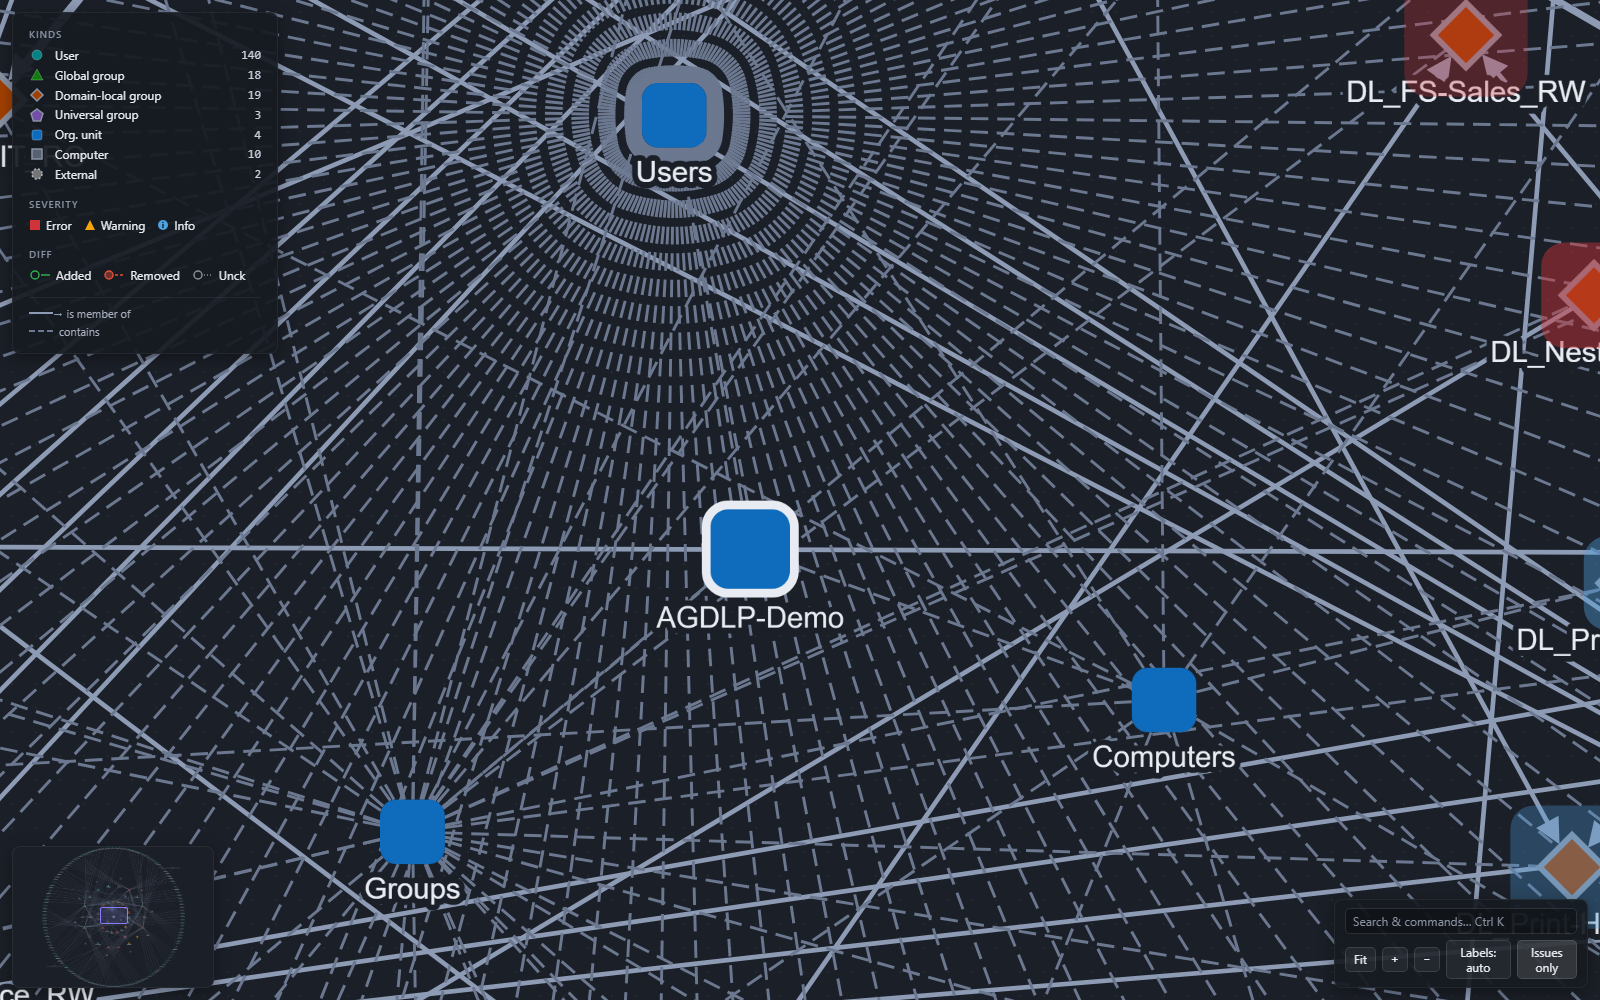
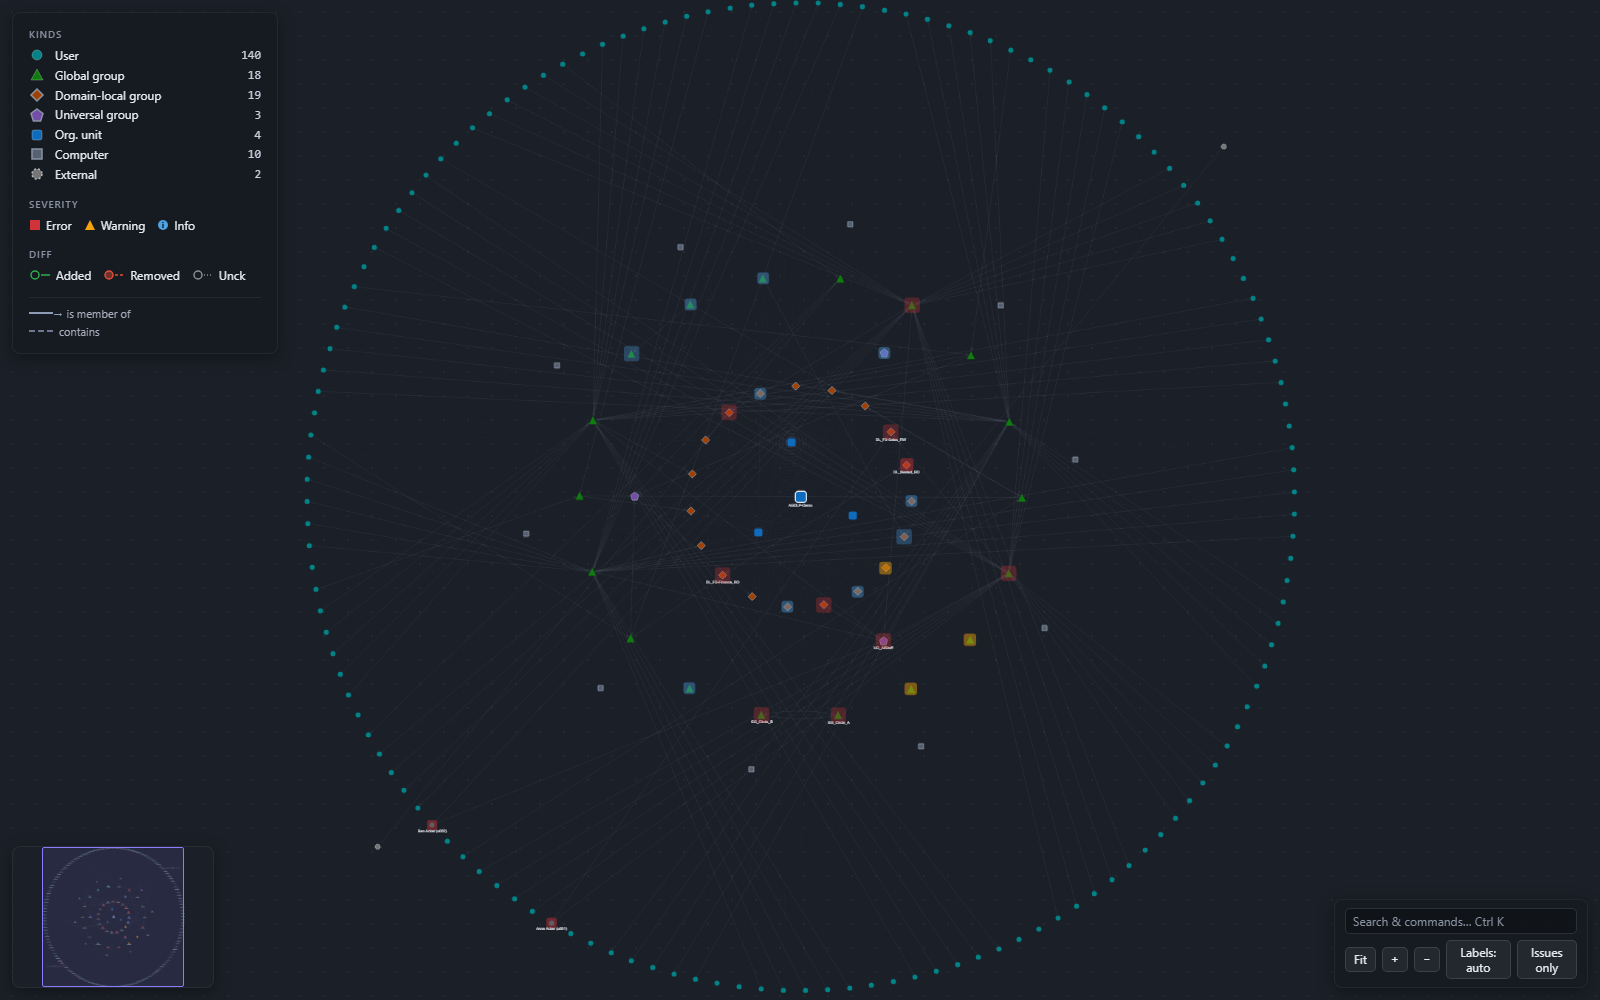
feat(graph): fade overview edges so explore reads as a constellation
At fit/overview zoom an individual edge is untraceable, so the full-opacity
mesh is pure noise (the "hairball") -- and it was the README hero. Fade plain
(non-diff) edges to opacity 0.15 at/near the fit baseline, restoring full
opacity on zoom-in. Binary class toggle with hysteresis (the cy.batch fires
only on a threshold crossing; isDiffGraph excludes the gap view wholesale),
instant (no transition, the #88 motion counters stay 0), software-rendering-
floor safe.

Re-points the README hero to the now-clean overview frame; pins the behaviour
in verify.mjs (overview faded / zoomed-in full / diff-frame off); ADR-029.

Closes #176

Claude-Session: https://claude.ai/code/session_011xnzdmWtBKGQ4CpA6RcJw7

diff --git a/src/App/web/graph.js b/src/App/web/graph.js
@@ -171,6 +171,21 @@
   // threshold keeps the init value until the next full build (acceptable for v0.1).
   var EDGE_HIDE_THRESHOLD = 1500;
 
+  // WP-A (#176, ADR-029): zoom-driven overview edge-fade. At/near the fit zoom an
+  // individual edge is untraceable, so the full-opacity mesh is pure visual noise (the
+  // "hairball"); at overview zoom every plain (non-diff) edge fades to a faint wash so
+  // the shaped-node constellation reads, then returns to full as the user zooms in to
+  // inspect. fitZoom is the size-independent overview baseline captured once per full
+  // build (cy.fit()); a binary class toggle with hysteresis keeps the software-
+  // rendering floor safe — the cy.batch toggle runs ONLY on a threshold crossing,
+  // never per frame. The gap/diff view is EXCLUDED wholesale (isDiffGraph): its
+  // Added/Removed/Unchecked edges are the signal, never noise. Instant (the
+  // gw-edge-faded rule carries no transition) so the #88 motion counters stay 0.
+  var EDGE_FADE_FACTOR = 1.6;   // fade while cy.zoom() <= fitZoom * this (tunable)
+  var fitZoom = null;           // zoom right after cy.fit() (overview baseline), per build
+  var edgesFaded = false;       // current applied fade state (the hysteresis guard)
+  var isDiffGraph = false;      // a gap/diff build (>=1 diff-tagged edge) => never fade
+
   // ADR-023 D4: Labels toggle state ('auto' = ADR-018 gate, 'all' = every label
   // at fit zoom). Module-level so applyLabelMode() can re-assert it in sendLoaded
   // after a graphUpdate adds new nodes. Default 'auto'.
@@ -433,6 +448,30 @@
     cy.nodes().toggleClass('gw-labels-all', labelMode === 'all');
   }
 
+  // WP-A (#176, ADR-029): apply the overview edge-fade for the CURRENT zoom. Driven by
+  // the 'zoom' cy event (via onZoomFade, force=false) and re-asserted from initGraph /
+  // sendLoaded (force=true) so a freshly built graph and any graphUpdate-added edges
+  // pick up the right state. Hysteresis: force=false short-circuits unless the fade
+  // threshold was just crossed, so the per-frame 'zoom' stream costs one read + one
+  // compare; the cy.batch class toggle runs ONLY on a crossing (software-floor safe).
+  // No-op until fitZoom is captured, and OFF entirely on a diff graph (isDiffGraph) so
+  // the gap view's coloured edges always stay full-opacity. Explore graphs carry no
+  // diff edge, so cy.edges() == the [!diff] set.
+  function updateEdgeFade(force) {
+    if (cy === null || fitZoom === null || isDiffGraph) { return; }
+    var shouldFade = cy.zoom() <= fitZoom * EDGE_FADE_FACTOR;
+    if (!force && shouldFade === edgesFaded) { return; }
+    edgesFaded = shouldFade;
+    cy.batch(function () {
+      if (shouldFade) { cy.edges().addClass('gw-edge-faded'); }
+      else { cy.edges().removeClass('gw-edge-faded'); }
+    });
+  }
+
+  // The 'zoom' cy event passes an event object as the first arg; wrap so it never
+  // reaches updateEdgeFade's `force` param (a truthy event would defeat the hysteresis).
+  function onZoomFade() { updateEdgeFade(false); }
+
   // WP3b (#142): does a node carry a finding or a flagged-descendant roll-up?
   // The predicate for "keep visible under issues-only". data('below') is emitted
   // only when > 0 (ADR-010 D2), so its mere presence means flagged descendants.
@@ -609,6 +648,7 @@
     updateLegendCounts();
     applyLabelMode();  // ADR-023 D4: re-assert label mode across a graphUpdate.
     applyIssuesFilter();  // WP3b (#142): re-assert issues-only across a graphUpdate.
+    updateEdgeFade(true); // WP-A (#176): re-assert overview fade onto graphUpdate edges.
     syncIssuesButton();   // WP3b: refresh the toggle (incl. all-clear) per build.
     refreshMinimap();     // WP3d (#146): (re)rasterize the thumbnail on any graph change.
   }
@@ -792,6 +832,17 @@
             opacity: 1
           }
         },
+        // WP-A (#176, ADR-029): overview edge-fade. Toggled on every edge by
+        // updateEdgeFade() when an explore graph is zoomed out near its fit baseline.
+        // Placed BEFORE the edge[diff=...] rules and the edge.gw-dim rule so BOTH still
+        // win the opacity channel below it: a diff-tagged edge keeps its diff opacity
+        // (and isDiffGraph turns fade off wholesale anyway), and a selection-dimmed edge
+        // keeps 0.12. The fade therefore governs only an undiffed, undimmed edge at
+        // overview zoom. No transition => instant => the #88 motion counters stay 0.
+        {
+          selector: 'edge.gw-edge-faded',
+          style: { opacity: 0.15 }
+        },
         // Gap diff EDGE override (AP 66, ADR-015 Slice 5): placed AFTER the
         // edge[rel=...] rules so it WINS line-color / line-style on a diffed edge.
         // line-style (solid/dashed/dotted) is the colorblind-redundant channel for
@@ -906,8 +957,16 @@
     // per-frame minimap work — a single div repositioned from cy.extent() (no png, no
     // boundingBox). Attaches ONCE per cy instance (initGraph recreates cy).
     cy.on('render pan zoom', updateMinimapViewport);
+    // WP-A (#176, ADR-029): track the overview edge-fade as the camera zooms.
+    cy.on('zoom', onZoomFade);
 
     cy.fit();
+    // ADR-029: capture the overview baseline, decide if this is a diff graph (once per
+    // build), and apply the fade BEFORE the first paint so the explore hero never
+    // flashes the full-opacity hairball. sendLoaded re-asserts it after a graphUpdate.
+    fitZoom = cy.zoom();
+    isDiffGraph = cy.edges('[?diff]').nonempty();
+    updateEdgeFade(true);
     cy.one('render', sendLoaded);
   }
 

diff --git a/docs/adr/029-graph-overview-edge-fade.md b/docs/adr/029-graph-overview-edge-fade.md
@@ -1,0 +1,112 @@
+# ADR-029: Graph overview edge-fade — fade plain edges at fit zoom, restore on zoom-in
+
+**Status:** Accepted · **Date:** 2026-06-25
+**Refines:** ADR-004 (preset concentric layout + the bezier edge language) · ADR-010/015 (severity overlay / diff underlay channels) · ADR-017/018 (#88 isolated-motion counters, instant class toggles) · ADR-023 (web-layer in-graph controls) · **Decides:** the v0.4.2 senior-review polish WP-A (#176) · **Phase:** 4 (feedback-driven)
+
+## Context
+
+The default fit/overview render of an explore graph is a dense, full-opacity **edge
+mesh** — at the demo scale (196 nodes / 334 edges) a legible-but-busy cobweb, and on a
+real directory a true hairball. At overview zoom no *individual* edge is traceable
+anyway (they cross, overlap, and converge on the high-degree rings), so the mesh at that
+zoom is **pure visual noise**: it buries the one thing the overview *should* communicate
+— the shaped-node constellation (which kinds sit where, which clusters are dense, where
+the flagged nodes are). This view is also the product's **first impression** and the
+README hero image (`docs/media/graph-explore.png`).
+
+The shipped app already ships strong *opt-in* mitigations — Issues-only filter (#142),
+Find / command palette (ADR-023), neighbourhood dim on selection (ADR-018), the minimap
+(#146) — but the **default first paint** receives none of them. The weakest frame in the
+product is the one every new user and every README reader sees first.
+
+Two hard constraints bind any fix:
+- **The software-rendering floor (ADR-001).** The target audience runs on RDP / server /
+  GPU-less VMs; the 5000-node/6499-edge spike (`spikes/GraphSpike/RESULTS-software-
+  rendering.md`) is the perf bar. A per-frame restyle of every edge is off the table.
+- **The #88 isolated-motion contract (ADR-017/018).** Selection and its kin are *instant
+  class toggles*, never `cy.animate`; `verify.mjs` pins the `__gwAnimateCalls` /
+  `__gwEnterAnims` counters at **0** across those paths. Any new resting-state treatment
+  must not animate.
+
+## Decision
+
+### D1 — Fade plain edges at overview zoom; restore them on zoom-in.
+
+When an explore graph sits at/near its fit zoom, every edge fades to a faint wash
+(`opacity 0.15`); as the user zooms in to inspect, edges return to full opacity. The
+**node** layer (kind fill + shape, severity halo, accent ring, labels) is untouched —
+only edges fade, so the constellation reads while the cobweb recedes. The faded wash
+keeps just enough edge presence to suggest structure (you can still see *that* the centre
+is densely connected) without asserting traceable individual links you cannot follow at
+that zoom anyway.
+
+### D2 — Binary toggle with hysteresis, never a per-frame opacity ramp.
+
+A continuous opacity-vs-zoom interpolation (prettier in principle) is **rejected**: it
+requires restyling every edge on every zoom frame, which breaks the software-rendering
+floor at the 5–6k-edge spike. Instead the fade is a single CSS-class toggle
+(`edge.gw-edge-faded { opacity: 0.15 }`) flipped on a **threshold crossing** only:
+
+- `fitZoom` is captured once per full build, right after `cy.fit()` — the
+  **size-independent overview baseline** (so the rule auto-scales to any graph; no magic
+  absolute zoom).
+- Edges fade while `cy.zoom() <= fitZoom * EDGE_FADE_FACTOR` (`1.6`, tunable). The factor
+  is small so edges restore quickly once the user starts zooming in to inspect.
+- **Hysteresis:** the per-frame `zoom` handler (`onZoomFade → updateEdgeFade(false)`)
+  costs one read + one compare; the `cy.batch` `addClass`/`removeClass` runs **only** when
+  the boolean state actually flips. The per-build init and every `graphUpdate` re-assert
+  with `updateEdgeFade(true)` so freshly-added edges (lazy expand) match the current
+  state.
+
+The toggle carries **no transition**, so it is instant and the #88 motion counters stay
+0 — the fade is a state change, not an animation, and needs no reduced-motion branch
+(ADR-017 is about `cy.animate` / opacity tweens, neither of which this uses).
+
+### D3 — The gap/diff view is excluded wholesale.
+
+In a gap build the Added / Removed / Unchecked edges **are** the signal, never noise — so
+fade is off entirely whenever the graph carries any diff-tagged edge (`isDiffGraph`,
+computed once per build via `cy.edges('[?diff]')`). This is checked as an O(1) module
+boolean inside `updateEdgeFade`, never as a per-frame selector scan. Style-channel
+composition is belt-and-braces here: the `edge.gw-edge-faded` rule is placed in
+`buildStyle()` **before** the `edge[diff=…]` rules and the `edge.gw-dim` rule, so even if
+the class were ever present on a diffed or selection-dimmed edge those later rules win the
+opacity channel (diff keeps its pinned opacity; a dimmed edge keeps `0.12`). The fade
+therefore governs only an **undiffed, undimmed** edge at overview zoom.
+
+### D4 — No new themed token; no parity-mirror entry.
+
+`EDGE_FADE_FACTOR` and the `0.15` wash are **behaviour constants in `graph.js` only**
+(like `EDGE_HIDE_THRESHOLD`), theme-invariant — they are not colours, so they do **not**
+join the hand-mirrored `BrandTokens` ⇄ `THEME`/`CHROME` ⇄ `index.html` ⇄ `verify.mjs`
+palette parity set (unlike ADR-027's accent token). They are pinned only by the
+`verify.mjs` behavioural assertion (D5).
+
+### D5 — Pinned in verify.mjs; a new ui-checklist criterion.
+
+`tests/graph-bundle/verify.mjs` pins the behaviour: at the overview frame a plain
+membership edge and a contains edge render `opacity ≈ 0.15`; after zooming in past
+`fitZoom * EDGE_FADE_FACTOR` the same edges render `opacity 1`; and on the diff frame no
+edge carries `gw-edge-faded` while the diff edges keep their pinned diff opacities. The
+overview frame (`graph-overview.png`) — the source the README hero is copied from — now
+renders the faded constellation. `docs/ui-checklist.md` gains a matching `[P]` criterion.
+
+## Consequences
+
+- **The explore hero stops being a hairball.** `docs/media/graph-explore.png` is
+  re-rendered from the new overview frame: a clean shaped-node constellation with faint
+  structural edges, not a full-opacity cobweb. The first impression now sells the product.
+- **Dark/light parity is unaffected** — fade is an opacity-only behaviour, identical in
+  both themes; no theme table changes.
+- **One pre-existing pin moves:** any `verify.mjs` assertion that pinned a plain edge's
+  opacity to `1` *at the overview frame* now expects the faded value at overview and full
+  opacity zoomed-in (the value is unchanged in graph.js' resting `buildStyle`; only the
+  rendered overview state changed). This is a deliberate, reviewed test update, not a
+  weakening.
+- **Selection at overview zoom** shares the faded edge treatment (the neighbourhood edges
+  are faint too); the node-level emphasis (un-dimmed neighbour nodes, accent ring, white
+  border) still carries the selection, and the user zooms in to trace links. Accepted for
+  v0.4.2; a future pass could exempt the selected neighbourhood from fade if review finds
+  it wanting — it would be an additive `updateEdgeFade` branch, not a contract change.
+- **No motion-counter impact** (#88): the fade is an instant class toggle, so the
+  ADR-017/018 `__gwAnimateCalls` pins hold unchanged.

diff --git a/.claude/skills/record-demo-media/SKILL.md b/.claude/skills/record-demo-media/SKILL.md
@@ -12,7 +12,7 @@ live operator identity) must never reach published media.
 
 | README artifact | Pipeline | Source frame |
 |---|---|---|
-| `docs/media/graph-explore.png` | `verify.mjs` (headless Chromium, [[headless-uitest]] part A) | `artifacts/ui/graph-focus.png` |
+| `docs/media/graph-explore.png` | `verify.mjs` (headless Chromium, [[headless-uitest]] part A) | `artifacts/ui/graph-overview.png` |
 | `docs/media/gap-analysis.png` | `verify.mjs` (diff tripwire frame) | `artifacts/ui/graph-diff.png` |
 | `docs/media/m2-explore.gif` | `tools/record-demo-gif.ps1` (live windowed app) | its own frames |
 
@@ -29,13 +29,18 @@ Avalonia app is never on screen for them. Only the GIF drives the running app.
 2. Copy + rename into git-tracked `docs/media/` (`artifacts/` is gitignored, so
    nothing lands automatically — this mapping lives only here and in #108):
    ```
-   Copy-Item artifacts/ui/graph-focus.png docs/media/graph-explore.png -Force
-   Copy-Item artifacts/ui/graph-diff.png  docs/media/gap-analysis.png  -Force
+   Copy-Item artifacts/ui/graph-overview.png docs/media/graph-explore.png -Force
+   Copy-Item artifacts/ui/graph-diff.png     docs/media/gap-analysis.png  -Force
    ```
    Straight copy at 1600×1000 — there is no crop/resize/PNG-optimization step.
-3. Read both PNGs; judge vs `docs/ui-checklist.md` (`[S:graph-focus]`/
+   (The hero is the OVERVIEW frame, not `graph-focus`, since WP-A/ADR-029 — the
+   overview-zoom edge-fade turns that frame into a clean kind-shaped constellation
+   instead of a hairball, the stronger first impression. `graph-focus` is still the
+   zoomed-in, full-edge frame for the `[S:graph-focus]` checklist items.)
+3. Read both PNGs; judge vs `docs/ui-checklist.md` (`[S:graph-overview]`/
    `[S:graph-diff]`). If the UI change altered the visual language (a kind colour,
-   the diff palette), update the README alt-text too (lines 12/18).
+   the diff palette, the overview edge-fade), update the README alt-text too
+   (lines 12/18).
 
 ## B. The demo GIF (`tools/record-demo-gif.ps1`)
 

diff --git a/README.md b/README.md
@@ -9,13 +9,15 @@ conventions. Where security-path tools like BloodHound or Adalanche show attack
 paths, GroupWeaver shows structural cleanliness and convention adherence — a
 governance perspective, not a security one.
 
-![GroupWeaver visualizing the bundled demo directory as an interactive, AD-centered graph — object kinds distinguished by color and shape, nesting drawn as edges, with a legend top-left, a minimap bottom-left, and a Ctrl+K command palette plus issues-only / fit / labels controls bottom-right](docs/media/graph-explore.png)
+![GroupWeaver visualizing the bundled demo directory as an interactive, AD-centered graph — object kinds distinguished by color and shape on concentric rings, nesting drawn as edges that fade back at the overview zoom so the kind-shaped constellation and flagged nodes read at a glance, with a legend top-left, a minimap bottom-left, and a Ctrl+K command palette plus issues-only / fit / labels controls bottom-right](docs/media/graph-explore.png)
 
-*Exploring the bundled demo directory in demo mode: object kinds (user, global /
+*The whole demo directory at a glance, in demo mode: object kinds (user, global /
 domain-local / universal group, OU, computer, external) are distinct by both color
-and shape, nesting is drawn as directed edges. A legend sits top-left, a minimap
-bottom-left, and a Ctrl+K command palette with an "issues-only" filter, fit, and
-label controls bottom-right.*
+and shape on concentric rings. At the overview zoom the nesting edges fade to a faint
+wash so the constellation — and the flagged nodes' severity halos — stay legible; zoom
+in and the edges return to full strength to trace membership. A legend sits top-left, a
+minimap bottom-left, and a Ctrl+K command palette with an "issues-only" filter, fit,
+and label controls bottom-right.*
 
 ![Gap analysis — a proposed plan diffed against the live structure: added reads green, removed reads red-orange and dashed, unexpanded-and-unchecked reads gray and dotted, on the union graph](docs/media/gap-analysis.png)
 

diff --git a/docs/ui-checklist.md b/docs/ui-checklist.md
@@ -31,6 +31,7 @@ test; **[I]** = interactive/manual — cannot be evidenced by a static frame.
 - [ ] Node types visually distinct — all 7 kinds differ by BOTH color and shape: User, GG, DL, UG, OU, Computer, External/unresolvable; every fill is graphical-object-distinguishable on the page bg (WCAG 1.4.11), with DL/UG/Computer (sub-3:1 fills) carrying a 2px #8A93A3 contrast-lift ring so the body's boundary still reads (ADR-021, #90); the palette is the single-source `BrandTokens` [S:graph-focus] [P palette parity C#↔JS for every kind] [P KIND_BORDER ring #8A93A3 on DL/UG/Computer, absent on the rest]
 - [x] Nesting edges legible, direction unambiguous, two layers not one cobweb (F6): membership = bezier, solid, brighter `#8E9BB4` at width 1.6 with an arrowhead drawn member → group (the legend's "is member of" reading, the primary directed signal); containment = bezier, dashed, dimmer `#6B788F` at width 1, arrowless (subordinate scaffolding). The two types separate on FOUR hue-free channels (lightness + weight + solid/dashed + arrow/none) so colourblind readers still parse them (1.4.1), and BOTH now clear the 3:1 non-text-contrast floor on `#1b1f27` (membership ~5.8:1, containment ~3.65:1 — the old sub-3:1 opacity compromise is gone) [S:graph-focus] [S:graph-cycle — the seeded antiparallel A↔B pair shows as two separated curves with both arrowheads visible, never one merged line] [P base member #8E9BB4/1.6/solid + contains #6B788F/1/dashed, verify.mjs]
 - [x] Edges stay visible during pan/zoom on small graphs (F7): `hideEdgesOnViewport` is gated on edge count (`> 1500` hides) — the ~334-edge demo and typical scopes keep edges drawn through gestures (no mid-zoom vanish), while large graphs retain cytoscape's hide-on-viewport optimization the 5000-node/6499-edge software-rendering spike relies on [P hideEdgesOnViewport===false for the demo, verify.mjs]
+- [ ] Overview edge-fade — the explore overview is a constellation, not a hairball (WP-A, ADR-029): at/near the fit zoom every plain (non-diff) edge fades to a faint wash (`opacity 0.15`) so the shaped-node clusters read over the mesh, then returns to full opacity as the user zooms in to inspect (threshold `cy.zoom() <= fitZoom * 1.6`, the size-independent baseline captured at `cy.fit()`); a binary `gw-edge-faded` class toggle with hysteresis (the `cy.batch` fires only on a threshold crossing — software-rendering-floor safe), instant (no transition, `__gwAnimateCalls` untouched); the **gap/diff view is excluded wholesale** (`isDiffGraph`) so Added/Removed/Unchecked edges always stay full-opacity [S:graph-overview faded vs graph-focus full] [P plain member+contains edge opacity 0.15 at overview / 1 zoomed-in; diff frame: no gw-edge-faded + diff opacities intact, verify.mjs]
 - [ ] Concentric layout sane: root centered, no node overlap at ~200 demo nodes [S:graph-overview] [T:GraphBuilderGeometryTests] [P rendered pairwise min center distance ≥ 44 + loaded counts match the fixture]
 - [ ] Canvas dot-grid (#168, redesign fidelity): a subtle Fluent dot-grid texture (24px pitch) sits BEHIND the graph on the `#cy` stage — faint light dots on the dark canvas, faint dark dots on the light canvas (themed `--gw-canvas-grid`: dark `rgba(255,255,255,.04)` / light `rgba(0,0,0,.045)`); decorative only, viewport-static (doesn't pan with the graph), never reduces node/label legibility [S:graph-overview] [S:graph-light] [P #cy background-image is a 24px radial-gradient + `--gw-canvas-grid` themes dark↔light, verify.mjs]
 - [ ] Label contrast sufficient: labels sit BELOW the nodes on the dark page background with a dark outline, never on the node fill [S:graph-focus] (labels are hidden at fit zoom BY DESIGN via `min-zoomed-font-size` — EXCEPT the root and Error-severity nodes, deliberately always-labeled at fit per ADR-018 F9; otherwise judge graph-focus, never the overview)